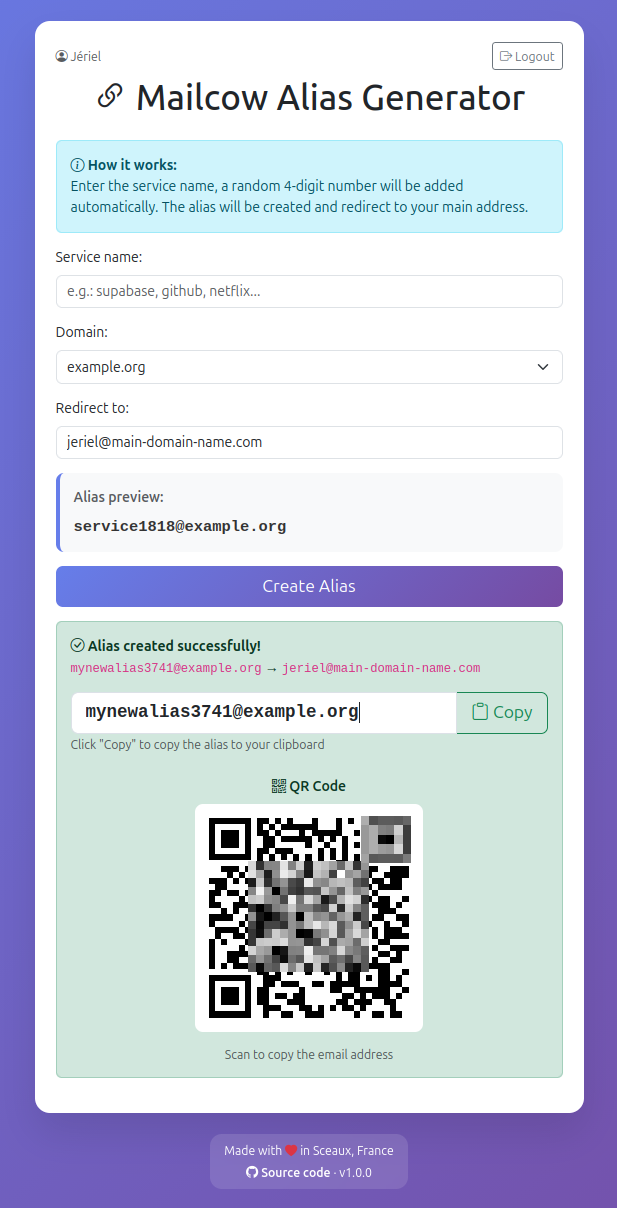
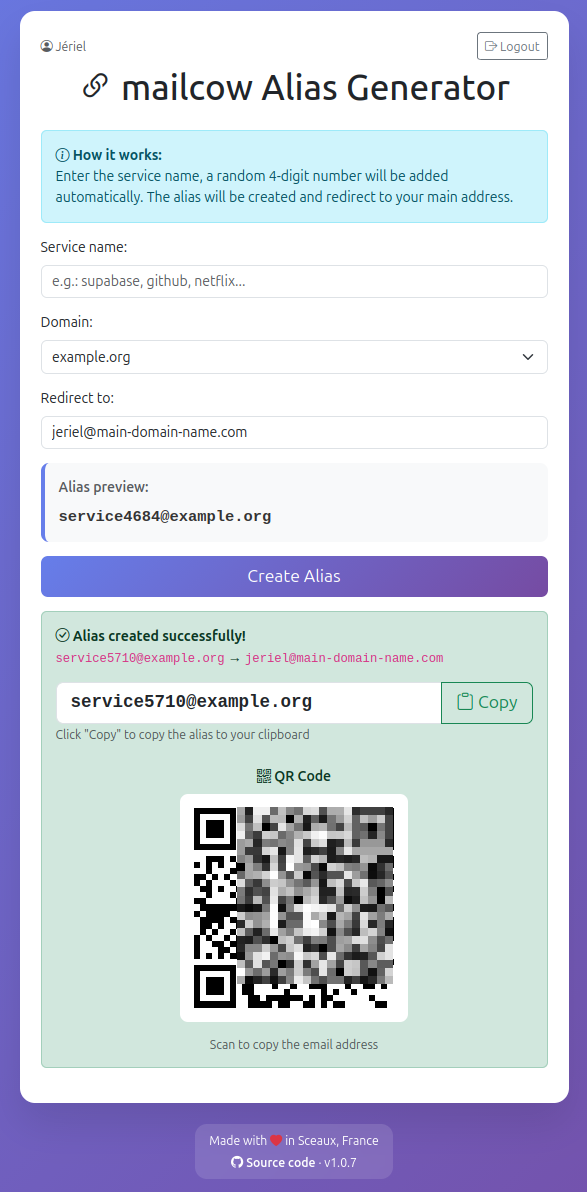
docs: refresh the screenshot for the lowercase header (#38)
* docs: refresh the screenshot for the lowercase header

The previous capture predated the trademark rename and still showed
"Mailcow Alias Generator" in the header, six versions out of date at v1.0.0.
docs/mailcow-docs-page.md embeds this file by raw URL from main, so the page
submitted to the mailcow documentation would have argued for the lowercase
spelling while displaying the capitalised one.

Same framing and demo data as before, captured on v1.0.7.

Claude-Session: https://claude.ai/code/session_01JssNwP1PzJyP37v8DHUsFU

* docs: explain the 1.0.7 rename in the changelog

1.0.7 shipped with the bare commit subject, unlike the two entries above it.
Say what a reader of a pull-to-update deployment needs: that the change is
text only, that no configuration or API surface moved, and why the lowercase
spelling was worth a release of its own.

Claude-Session: https://claude.ai/code/session_01JssNwP1PzJyP37v8DHUsFU

---------

Changed region(s): [[0.0307, 0.0, 0.9813, 0.9933]]

diff --git a/CHANGELOG.md b/CHANGELOG.md
@@ -7,6 +7,23 @@
 
 * write mailcow in lowercase, as the trademark requires ([#36](https://github.com/Upellift99/mailcow-alias-generator/issues/36)) ([85bc807](https://github.com/Upellift99/mailcow-alias-generator/commit/85bc80728e43f341e781a2c6c3121b4c2f8d1712))
 
+`mailcow` is a registered trademark and is always written in lowercase. The
+project wrote "Mailcow" in 43 places — the README, the interface, the startup
+banners and the code comments. This release corrects all of them.
+
+**Nothing behaves differently.** The only strings a user sees are the page
+titles, the header shown in the interface, the startup banner, and one error
+message — *Unable to connect to mailcow server* — which the README's
+troubleshooting table quotes verbatim, so both moved together. No identifier,
+JSON key, URL or configuration name changed: `mailcow_url` was already
+lowercase. Existing `config.json` files, API keys and deployments are
+unaffected, and upgrading needs nothing beyond the usual pull.
+
+The display name keeps its Title Case tail — **mailcow Alias Generator** —
+matching how the mailcow documentation registers third-party tools itself. This
+is the groundwork for submitting the project to their community-managed
+"third party apps" section, where the lowercase spelling is checked on review.
+
 ## [1.0.6](https://github.com/Upellift99/mailcow-alias-generator/compare/v1.0.5...v1.0.6) (2026-08-29)
 
 
